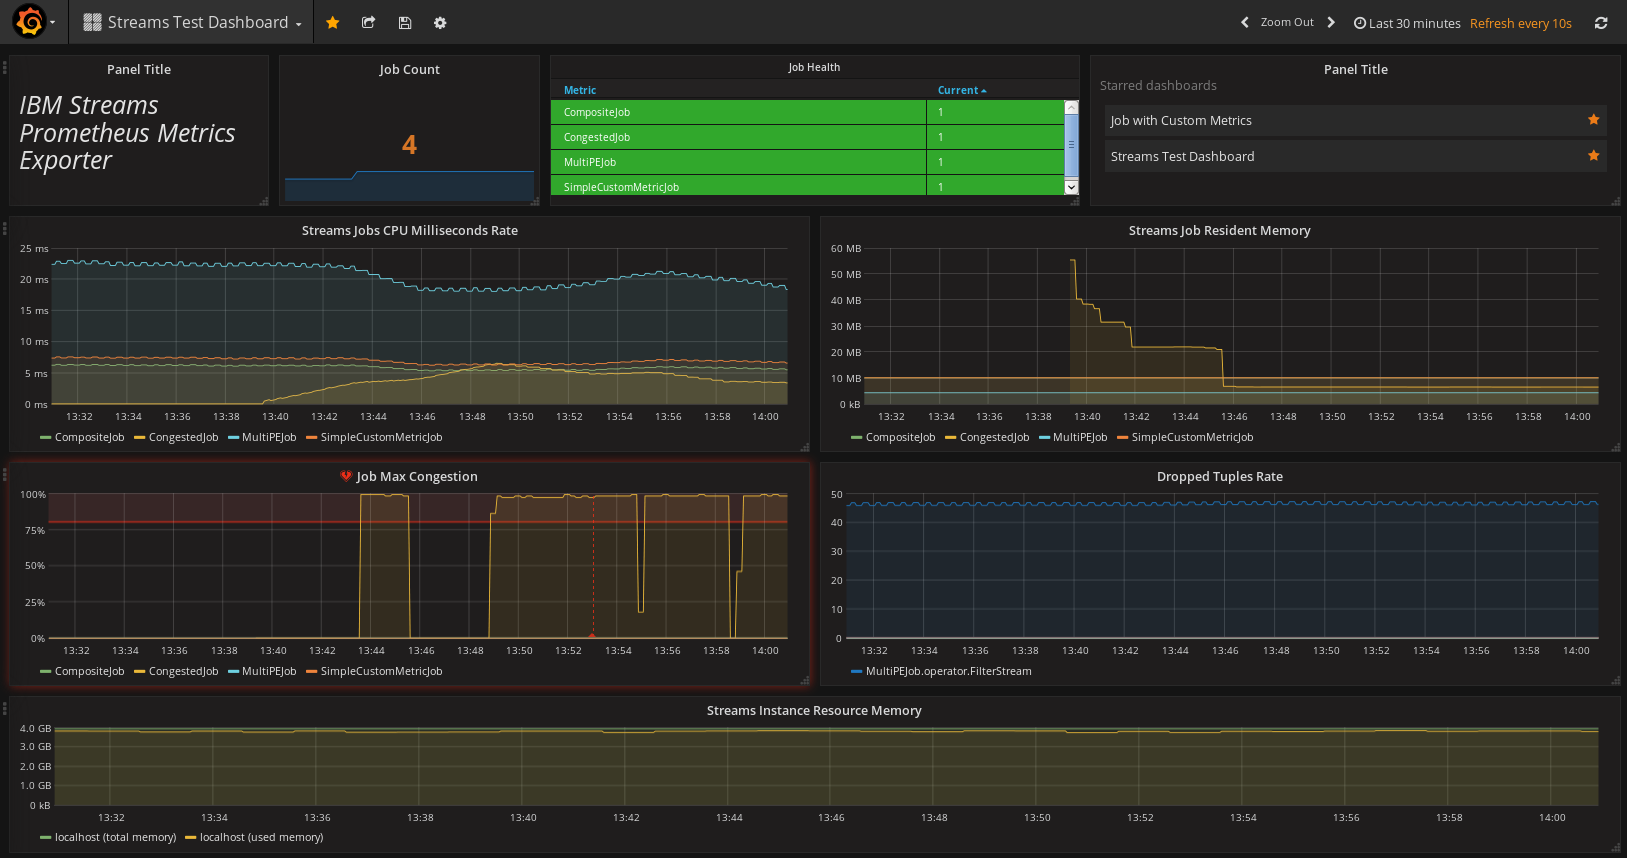
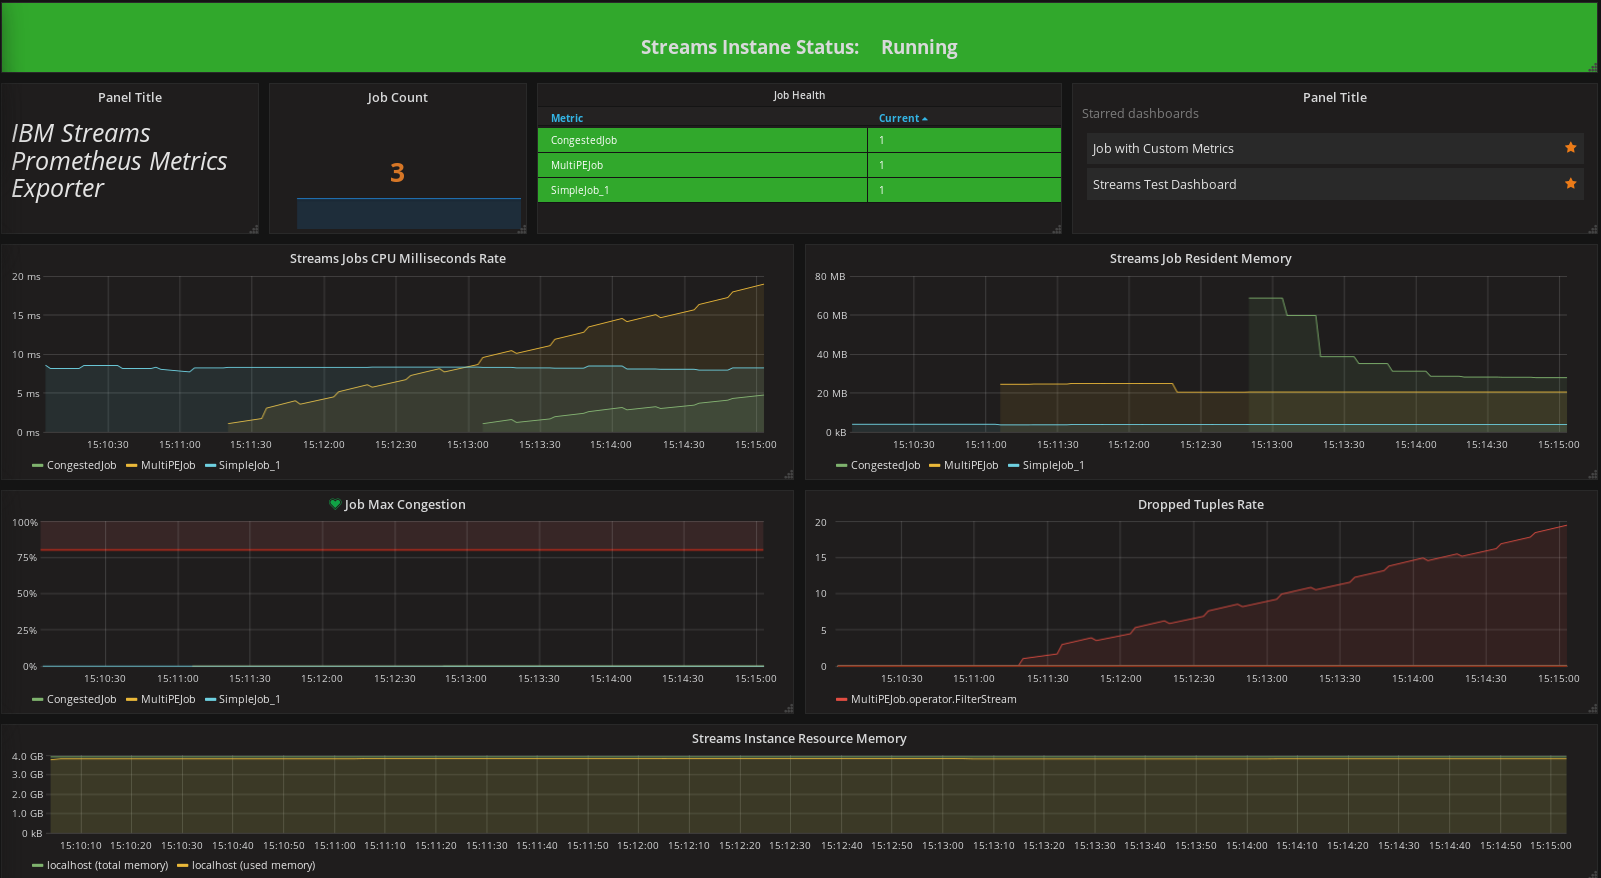
Add Streams Instance Status and handle Instance start/stop/failure

diff --git a/streams-metric-exporter/src/main/java/streams/metric/exporter/streamstracker/StreamsInstanceTracker.java b/streams-metric-exporter/src/main/java/streams/metric/exporter/streamstracker/StreamsInstanceTracker.java
@@ -462,27 +462,28 @@ public class StreamsInstanceTracker implements NotificationListener, MXBeanSourc
      */
     public synchronized void refresh() throws StreamsTrackerException {
         LOGGER.trace("*** entering refresh()");
-				LOGGER.trace("    current state: isInstanceAvailable: {}, jobsAvailable: {}, metricsAvailable {}",this.instanceInfo.isInstanceAvailable(), jobsAvailable, metricsAvailable);
+		LOGGER.trace("    current state: isInstanceAvailable: {}, jobsAvailable: {}, metricsAvailable {}",this.instanceInfo.isInstanceAvailable(), jobsAvailable, metricsAvailable);
         
         if (!this.instanceInfo.isInstanceAvailable()) {
-        		LOGGER.trace("*** Calling initStreamsInstance()");
+        	LOGGER.trace("*** Calling initStreamsInstance()");
             initStreamsInstance();
         }
 
         if (instanceInfo.isInstanceAvailable()) {
-        		LOGGER.trace("*** Calling updateInstanceResourceMetrics()");
+        	LOGGER.trace("*** Calling updateInstanceResourceMetrics()");
+        	metricsExporter.getStreamsMetric("jobCount", StreamsObjectType.INSTANCE, this.instanceInfo.getInstanceName()).set(jobMap.size());
             updateInstanceResourceMetrics();
         }
 
         // Need to know if instance was unavailable on previous run so we
         // re-initialize jobs
         if (!jobsAvailable) {
-        		LOGGER.trace("*** Calling initAllJobs()");
+        	LOGGER.trace("*** Calling initAllJobs()");
             initAllJobs();
         }
 
         if (metricsAvailable) {
-        		LOGGER.trace("*** Calling updateAllJobMetrics(true)");
+        	LOGGER.trace("*** Calling updateAllJobMetrics(true)");
             updateAllJobMetrics(true);
         }
         
@@ -499,7 +500,7 @@ public class StreamsInstanceTracker implements NotificationListener, MXBeanSourc
      * metrics are re-initialized and brought back into consistency with
      * Streams.
      */
-    public synchronized void resetMonitor() {
+    public synchronized void resetTracker() {
         this.instanceInfo.setInstanceAvailable(false);
         this.jobsAvailable = false;
         this.metricsAvailable = false;
@@ -508,14 +509,18 @@ public class StreamsInstanceTracker implements NotificationListener, MXBeanSourc
         	this.allJobMetrics.setLastMetricsFailure(new Date());
         	this.allJobMetrics.setLastMetricsRefreshFailed(true);
         }
+        removeExportedInstanceMetrics();
+        createExportedInstanceMetrics();
     }
 
     /*
      * clearMonitor In the case that the Streams instance is stopped/fails we
      * will not be able to recover the metrics or jobs so clear them out
      */
-    private synchronized void clearMonitor() {
+    private synchronized void clearTracker() {
         instanceResourceMetrics.clear();
+        removeExportedInstanceMetrics();
+        createExportedInstanceMetrics();
         this.allJobMetrics.clear();
         this.jobMap.clear();
     }
@@ -547,7 +552,7 @@ public class StreamsInstanceTracker implements NotificationListener, MXBeanSourc
                 LOGGER.warn(
                         "Instance '{}' not found.  Continuing assuming it will be created in the future",
                         this.instanceInfo.getInstanceName());
-                resetMonitor();
+                resetTracker();
                 return;
             }
 
@@ -563,7 +568,7 @@ public class StreamsInstanceTracker implements NotificationListener, MXBeanSourc
                         "Instance '{}' found, but is not started.  Current Status: {}",
                         new Object[] { this.instanceInfo.getInstanceName(),
                                 this.instanceInfo.getInstanceStatus() });
-                resetMonitor();
+                resetTracker();
                 return;
             } else {
                 // Force jobs and metrics to initialize by setting instance as
@@ -611,7 +616,7 @@ public class StreamsInstanceTracker implements NotificationListener, MXBeanSourc
                         "Instance '{}' not found when initializing.  Continuing assuming it will be created in the future",
                         this.instanceInfo.getInstanceName());
                 this.instanceInfo.setInstanceExists(false);
-                resetMonitor();
+                resetTracker();
             } else {
                 LOGGER.trace("Unexpected exception ("
                         + t.getClass()
@@ -626,19 +631,20 @@ public class StreamsInstanceTracker implements NotificationListener, MXBeanSourc
                     "Instance '{}' not found when initializing.  Continuing assuming it will be created in the future",
                     this.instanceInfo.getInstanceName());
             this.instanceInfo.setInstanceExists(false);
-            resetMonitor();
+            resetTracker();
             // throw new StreamsMonitorException("Instance MXBean not found when
             // initializing instance");
         } catch (MalformedURLException me) {
-            resetMonitor();
+            resetTracker();
             throw new StreamsTrackerException(
                     "Invalid JMX URL when initializing instance", me);
         } catch (IOException ioe) {
             // JMX Error, cannot initialize streams instance so ensure state
             // variables reflect and return
             LOGGER.warn("JMX IO Exception when initializing instance, Continuing to wait for reconnect");
-            resetMonitor();
+            resetTracker();
         }
+        createExportedInstanceMetrics();
     }
 
     // Initialize our tracking of jobs and metrics
@@ -687,7 +693,7 @@ public class StreamsInstanceTracker implements NotificationListener, MXBeanSourc
             } catch (IOException e) {
                 LOGGER.warn("JMX IO Exception when initializing all job metrics, resetting monitor. Exception message: "
                         + e.getLocalizedMessage());
-                resetMonitor();
+                resetTracker();
             }
 
             if (LOGGER.isDebugEnabled()) {
@@ -837,7 +843,7 @@ public class StreamsInstanceTracker implements NotificationListener, MXBeanSourc
                 // reconnect
                 LOGGER.warn("Job Map Initialization received IO Exception from JMX Connection Pool.  Resetting monitor.  Exception Message: "
                         + e.getLocalizedMessage());
-                resetMonitor();
+                resetTracker();
             }
 
             if (LOGGER.isDebugEnabled()) {
@@ -878,12 +884,14 @@ public class StreamsInstanceTracker implements NotificationListener, MXBeanSourc
         } catch (IOException e) {
             LOGGER.warn("New Job Initialization received IO Exception from JMX Connection Pool.  Resetting monitor.  Exception Message: "
                     + e.getLocalizedMessage());
-            resetMonitor();
+            resetTracker();
         }
 
         sw.stop();
         LOGGER.debug("** addJobToMap (jobid: " + jobid + ") time: "
                 + sw.getTime());
+        
+		metricsExporter.getStreamsMetric("jobCount", StreamsObjectType.INSTANCE, this.instanceInfo.getInstanceName()).set(jobMap.size());
 
     }
 
@@ -898,6 +906,8 @@ public class StreamsInstanceTracker implements NotificationListener, MXBeanSourc
         sw.stop();
         LOGGER.debug("** removeJobFromMap (jobid: " + jobid + ") time: "
                 + sw.getTime());
+        
+		metricsExporter.getStreamsMetric("jobCount", StreamsObjectType.INSTANCE, this.instanceInfo.getInstanceName()).set(jobMap.size());
 
     }   
     
@@ -923,7 +933,7 @@ public class StreamsInstanceTracker implements NotificationListener, MXBeanSourc
                 } catch (IOException e) {
                     LOGGER.error("Updating all metrics received IO Exception from JMX Connection Pool.  Resetting monitor.  Exception Message: "
                             + e.getLocalizedMessage());
-                    resetMonitor();
+                    resetTracker();
                 }
                 sw.split();
                 LOGGER.debug("** updateAllJobMetrics refresh from server split time: " + sw.getSplitTime());
@@ -1049,27 +1059,28 @@ public class StreamsInstanceTracker implements NotificationListener, MXBeanSourc
                         .getNewValue();
                 InstanceMXBean.Status oldValue = (InstanceMXBean.Status) acn
                         .getOldValue();
-                LOGGER.debug("Instance Status Changed from: " + oldValue
+                LOGGER.info("Streams Instance Status Changed from: " + oldValue
                         + " to: " + newValue);
                 this.instanceInfo.setInstanceStatus((InstanceMXBean.Status) acn
                         .getNewValue());
                 if (newValue.equals(InstanceMXBean.Status.STOPPED)
                         || newValue.equals(InstanceMXBean.Status.FAILED)
                         || newValue.equals(InstanceMXBean.Status.UNKNOWN)) {
-                    LOGGER.info("Instance Status ("
+                    LOGGER.info("Instance Status reflects not availabe status ("
                             + newValue
                             + "), monitor will reset and reinitialize when instance is available");
                     this.instanceInfo.setInstanceStartTime(null);
-                    resetMonitor();
-                    clearMonitor();
+                    resetTracker();
+                    clearTracker();
+                	metricsExporter.getStreamsMetric("status", StreamsObjectType.INSTANCE, this.instanceInfo.getInstanceName()).set(getInstanceStatusAsMetric());
                 }
             }
             break;
         case Notifications.INSTANCE_DELETED:
             LOGGER.debug("Instance deleted from domain, resetting monitor and waiting for instance to be recreated");
             this.instanceInfo.setInstanceExists(false);
-            resetMonitor();
-            clearMonitor();
+            resetTracker();
+            clearTracker();
             break;
         case Notifications.JOB_ADDED:
             LOGGER.debug("****** Job add notification, Jobid : "
@@ -1086,10 +1097,38 @@ public class StreamsInstanceTracker implements NotificationListener, MXBeanSourc
         }
 
     }
+    
+    private void createExportedInstanceMetrics() {
+    	metricsExporter.createStreamsMetric("status", StreamsObjectType.INSTANCE, "Instance status, 1: running, .5: partially up, 0: stopped, failed, unknown");
+    	metricsExporter.getStreamsMetric("status", StreamsObjectType.INSTANCE, this.instanceInfo.getInstanceName()).set(getInstanceStatusAsMetric());
+    	metricsExporter.createStreamsMetric("jobCount", StreamsObjectType.INSTANCE, "Number of jobs currently deployed into the streams instance");
+    	metricsExporter.getStreamsMetric("jobCount", StreamsObjectType.INSTANCE, this.instanceInfo.getInstanceName()).set(0);
+    }
+    
+    private void removeExportedInstanceMetrics() {
+		metricsExporter.removeAllChildStreamsMetrics(this.instanceInfo.getInstanceName());
+    }
+    
+    private double getInstanceStatusAsMetric() {
+    	double value = 0;
+    	switch (this.instanceInfo.getInstanceStatus()) {
+    	case RUNNING :
+    		value = 1;
+    		break;
+    	case STARTING:
+    	case PARTIALLY_RUNNING:
+    	case PARTIALLY_FAILED:
+    	case STOPPING:
+    		value = 0.5;
+    	default:
+    		value = 0;
+    	}
+    	return value;
+    }
 
     @Override
     public void beanSourceInterrupted(MXBeanSource bs) {
         LOGGER.debug("***** BeanSource interrupted, resetting monitor...");
-        resetMonitor();
+        resetTracker();
     }
 }

diff --git a/streams-metric-exporter/src/main/java/streams/metric/exporter/streamstracker/job/JobMap.java b/streams-metric-exporter/src/main/java/streams/metric/exporter/streamstracker/job/JobMap.java
@@ -25,9 +25,10 @@ import java.util.Iterator;
 import java.util.Map;
 import java.util.concurrent.ConcurrentSkipListMap;
 
-import streams.metric.exporter.metrics.MetricsExporter;
-import streams.metric.exporter.metrics.MetricsExporter.StreamsObjectType;
-import streams.metric.exporter.prometheus.PrometheusMetricsExporter;
+import org.slf4j.Logger;
+import org.slf4j.LoggerFactory;
+
+import streams.metric.exporter.streamstracker.StreamsInstanceTracker;
 
 /*
  * JobMap
@@ -36,43 +37,47 @@ import streams.metric.exporter.prometheus.PrometheusMetricsExporter;
  * 
  */
 public class JobMap {
+	private static final Logger LOGGER = LoggerFactory.getLogger("root." + StreamsInstanceTracker.class.getName());
+
 	private String streamsInstanceName = null;
     /*****************************************
      * JOB MAP and INDEXES
      **************************************/
     /* Job Map Info */
-    private ConcurrentSkipListMap<BigInteger, JobDetails> jobMap = new ConcurrentSkipListMap<BigInteger, JobDetails>();
+    private ConcurrentSkipListMap<BigInteger, JobDetails> jobDetailsMap = new ConcurrentSkipListMap<BigInteger, JobDetails>();
     private ConcurrentSkipListMap<String, BigInteger> jobNameIndex = new ConcurrentSkipListMap<String, BigInteger>();
-
-    // Prometheus Metrics
-    // Temporary
-	private MetricsExporter metricsExporter = new PrometheusMetricsExporter();
 
 //    static final Gauge streams_instance_jobcount = Gauge.build()
 //    		.name("streams_instance_jobcount").help("Number of jobs in streams instance").register();
 
     public JobMap(String streamsInstanceName) {
+    	LOGGER.trace("JobMap Initialization");
     	this.streamsInstanceName = streamsInstanceName;
-    	metricsExporter.createStreamsMetric("jobCount", StreamsObjectType.INSTANCE, "Number of jobs currently deployed into the streams instance");
     }
 	
+    // Clear out the job map
     public synchronized void clear() {
-    	jobMap.clear();
+    	LOGGER.trace("JobMap.clear()");
+        Iterator<Map.Entry<BigInteger, JobDetails>> it = jobDetailsMap
+                .entrySet().iterator();
+        while (it.hasNext()) {
+            Map.Entry<BigInteger, JobDetails> pair = it.next();
+            JobDetails curInfo = (JobDetails) pair.getValue();
+            curInfo.close(); 
+        }
+    	jobDetailsMap.clear();
     	jobNameIndex.clear();
-    	//streams_instance_jobcount.clear();
-		metricsExporter.removeStreamsMetric("jobCount", StreamsObjectType.INSTANCE,this.streamsInstanceName);
-
     }
     
     public synchronized int size() {
-    	return jobMap.size();
+    	return jobDetailsMap.size();
     }
     
     /* Return a map using jobInfo objects rather than all details */
     public synchronized Map<BigInteger, JobInfo> getJobMap() {
         HashMap<BigInteger, JobInfo> m = new HashMap<BigInteger, JobInfo>();
 
-        Iterator<Map.Entry<BigInteger, JobDetails>> it = jobMap.entrySet()
+        Iterator<Map.Entry<BigInteger, JobDetails>> it = jobDetailsMap.entrySet()
                 .iterator();
 
         while (it.hasNext()) {
@@ -93,14 +98,14 @@ public class JobMap {
     public synchronized JobDetails getJob(int jobid) {
         BigInteger jid = BigInteger.valueOf(jobid);
 
-        return jobMap.get(jid);
+        return jobDetailsMap.get(jid);
     }
 
     /* Return job info of each job in the map */
 	public synchronized ArrayList<JobInfo> getJobInfo() {
 		ArrayList<JobInfo> jia = new ArrayList<JobInfo>();
 
-		Iterator<Map.Entry<BigInteger, JobDetails>> it = jobMap.entrySet().iterator();
+		Iterator<Map.Entry<BigInteger, JobDetails>> it = jobDetailsMap.entrySet().iterator();
 		while (it.hasNext()) {
 			Map.Entry<BigInteger, JobDetails> pair = it.next();
 
@@ -117,7 +122,7 @@ public class JobMap {
         JobDetails jd = null;
         JobInfo ji = null;
 
-        jd = jobMap.get(jid);
+        jd = jobDetailsMap.get(jid);
         if (jd != null) {
         	ji = jd.getJobInfo();
         }
@@ -128,28 +133,21 @@ public class JobMap {
     // ** Add Job to job map
 	public synchronized void addJobToMap(BigInteger jobid, JobDetails details) {
 
-		jobMap.put(jobid, details);
+		jobDetailsMap.put(jobid, details);
 		jobNameIndex.put(details.getName(), jobid);
-		//streams_instance_jobcount.set(size());
-		metricsExporter.getStreamsMetric("jobCount", StreamsObjectType.INSTANCE, this.streamsInstanceName).set(size());
-
-
 	}
 
     public synchronized void removeJobFromMap(BigInteger jobid) {
         // Tell jobDetails handle going away, whatever it needs to do
-    	if (jobMap.containsKey(jobid))
-    			jobMap.get(jobid).close();
-        jobMap.remove(jobid);
+    	if (jobDetailsMap.containsKey(jobid))
+    			jobDetailsMap.get(jobid).close();
+        jobDetailsMap.remove(jobid);
         // Need to remove it from the jobNameIndex
         jobNameIndex.values().removeAll(Collections.singleton(jobid));
-        //streams_instance_jobcount.set(size());
-		metricsExporter.getStreamsMetric("jobCount", StreamsObjectType.INSTANCE, this.streamsInstanceName).set(size());
-
     }
     
     public synchronized void setJobMetricsFailed(Date failureDate) {
-        Iterator<Map.Entry<BigInteger, JobDetails>> it = jobMap
+        Iterator<Map.Entry<BigInteger, JobDetails>> it = jobDetailsMap
                 .entrySet().iterator();
         while (it.hasNext()) {
             Map.Entry<BigInteger, JobDetails> pair = it.next();
@@ -164,9 +162,9 @@ public class JobMap {
         StringBuilder result = new StringBuilder();
         String newline = System.getProperty("line.separator");
         
-        result.append("All " + jobMap.size() + " Jobs:");
+        result.append("All " + jobDetailsMap.size() + " Jobs:");
         result.append(newline);
-        Iterator<Map.Entry<BigInteger, JobDetails>> it = jobMap.entrySet()
+        Iterator<Map.Entry<BigInteger, JobDetails>> it = jobDetailsMap.entrySet()
                 .iterator();
 
         while (it.hasNext()) {

diff --git a/streams-metric-exporter/src/main/java/streams/metric/exporter/streamstracker/job/JobDetails.java b/streams-metric-exporter/src/main/java/streams/metric/exporter/streamstracker/job/JobDetails.java
@@ -526,7 +526,7 @@ public class JobDetails implements NotificationListener {
 			} catch (IOException e) {
 				// Assuming this means that JMX connection was lost, mark
 				// everything as unavailable
-				monitor.resetMonitor();
+				monitor.resetTracker();
 			}
 
 			break;
